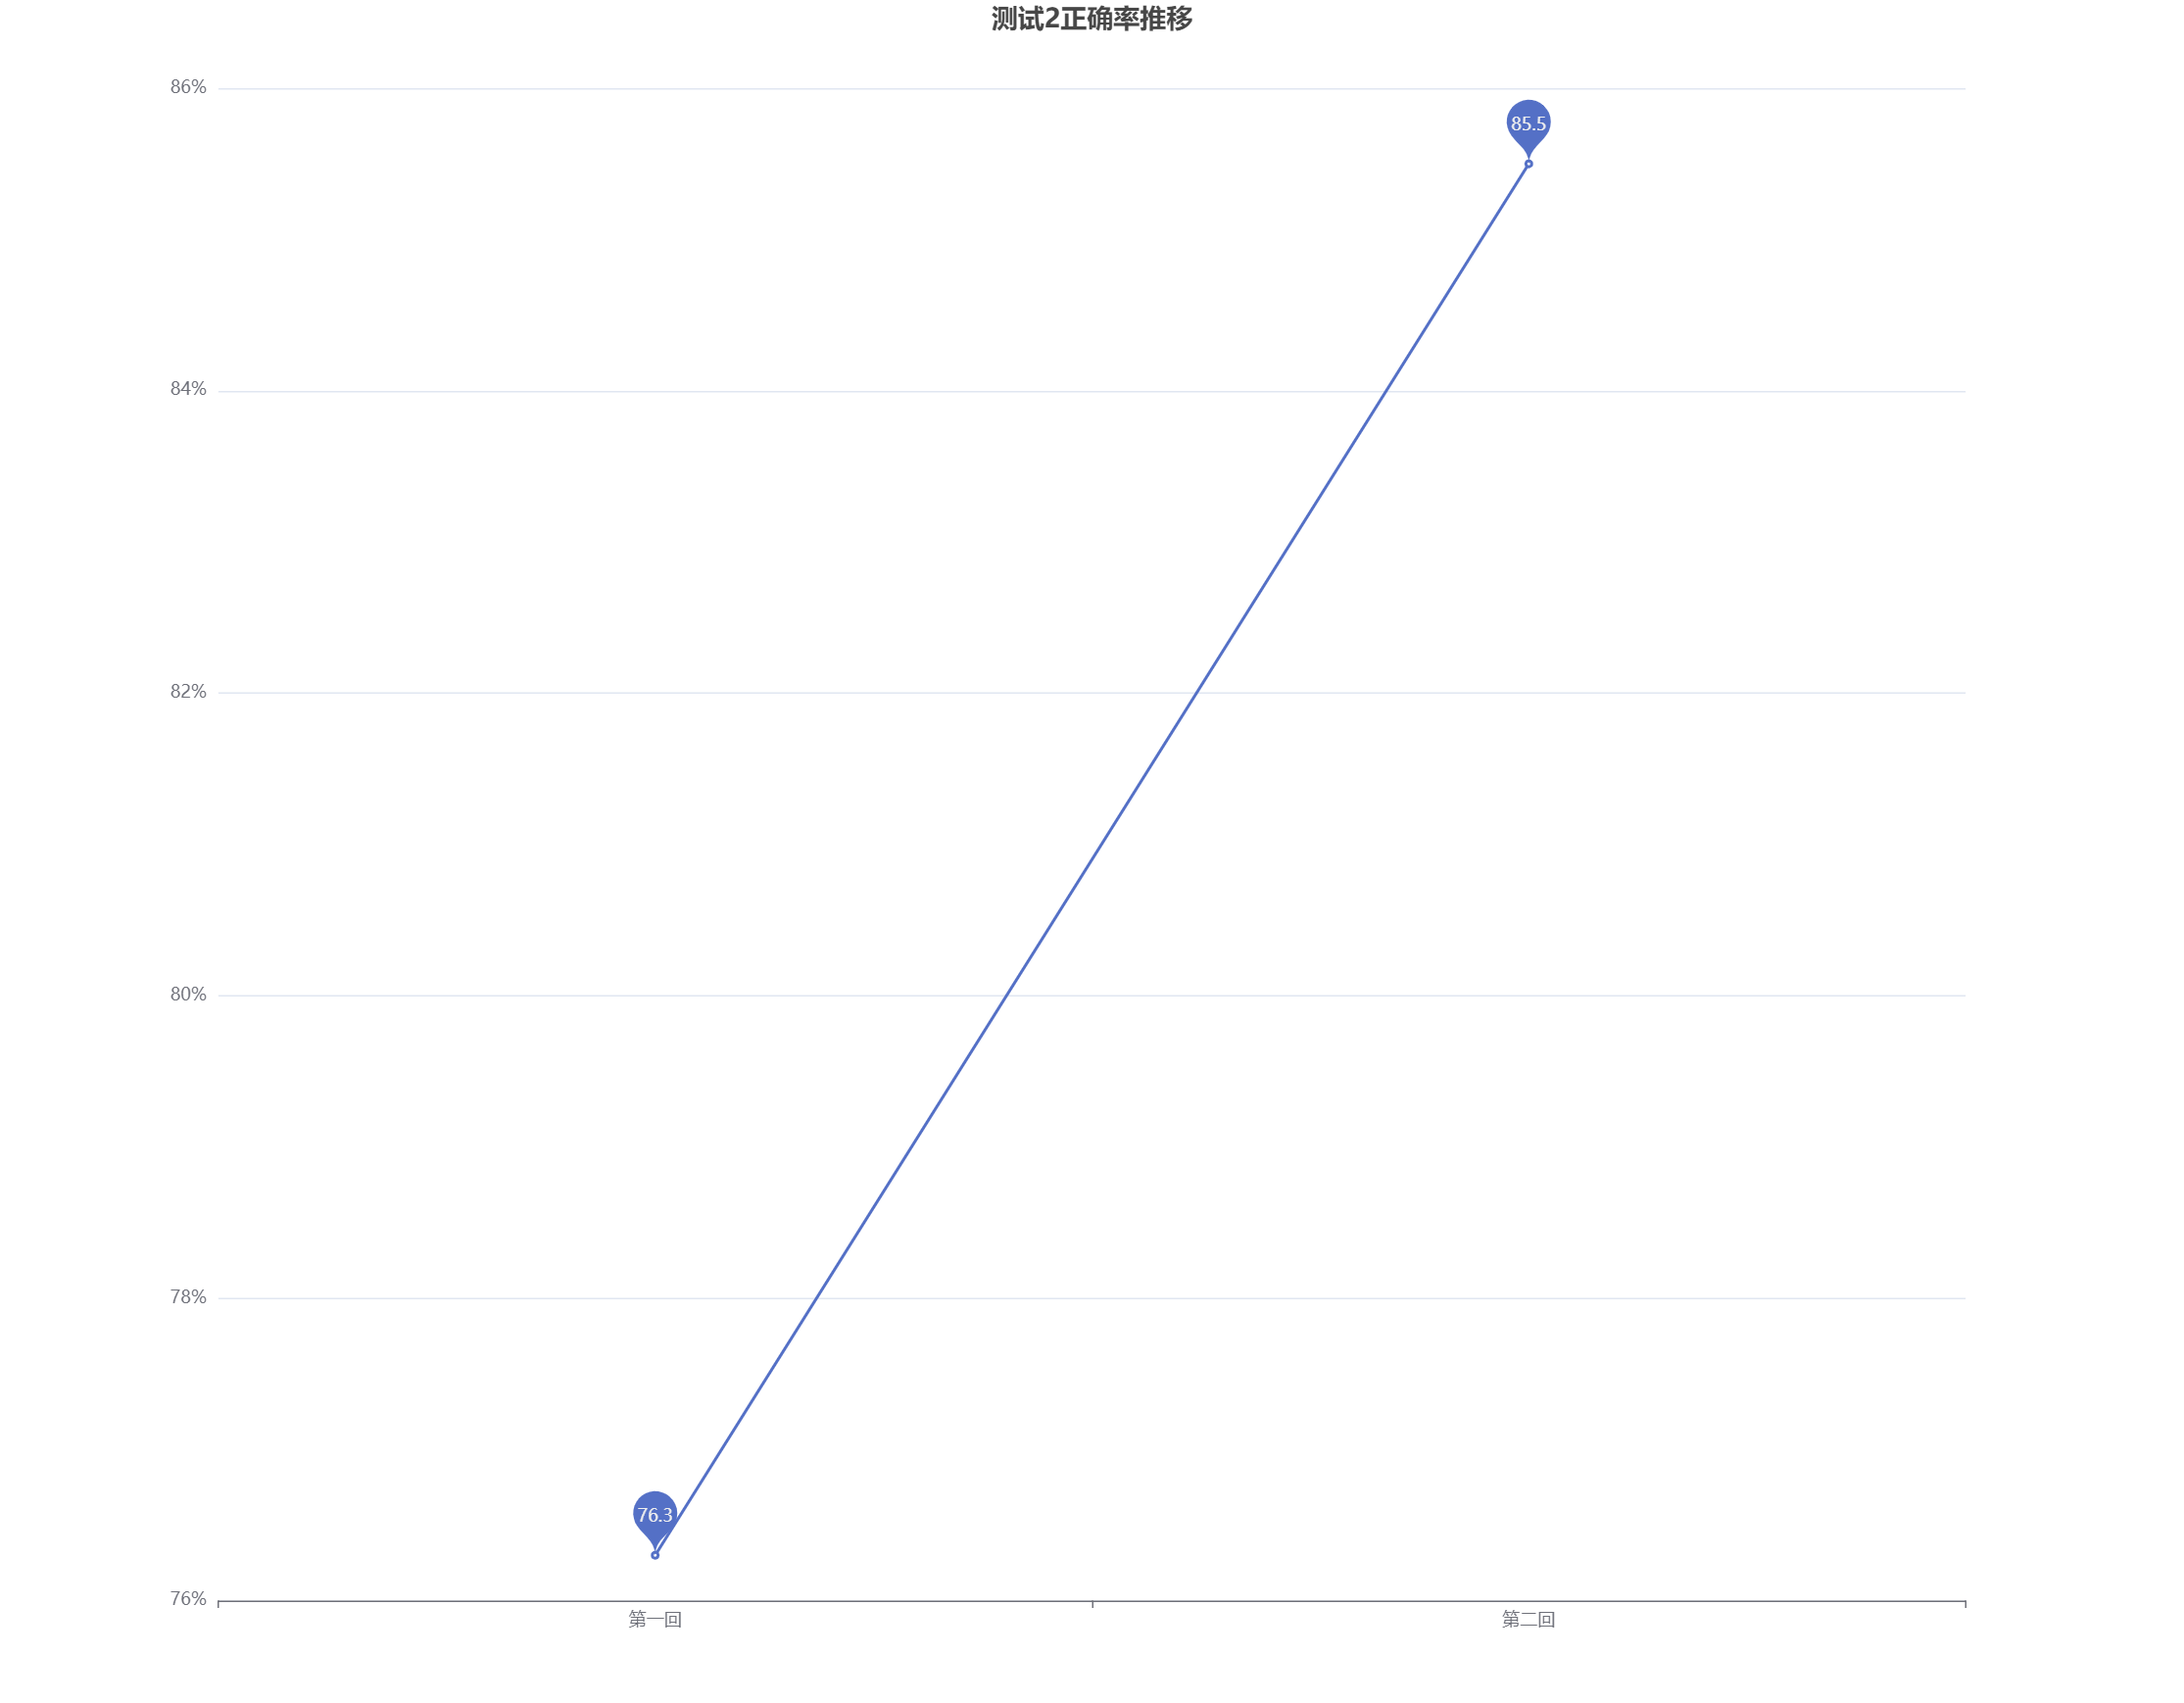
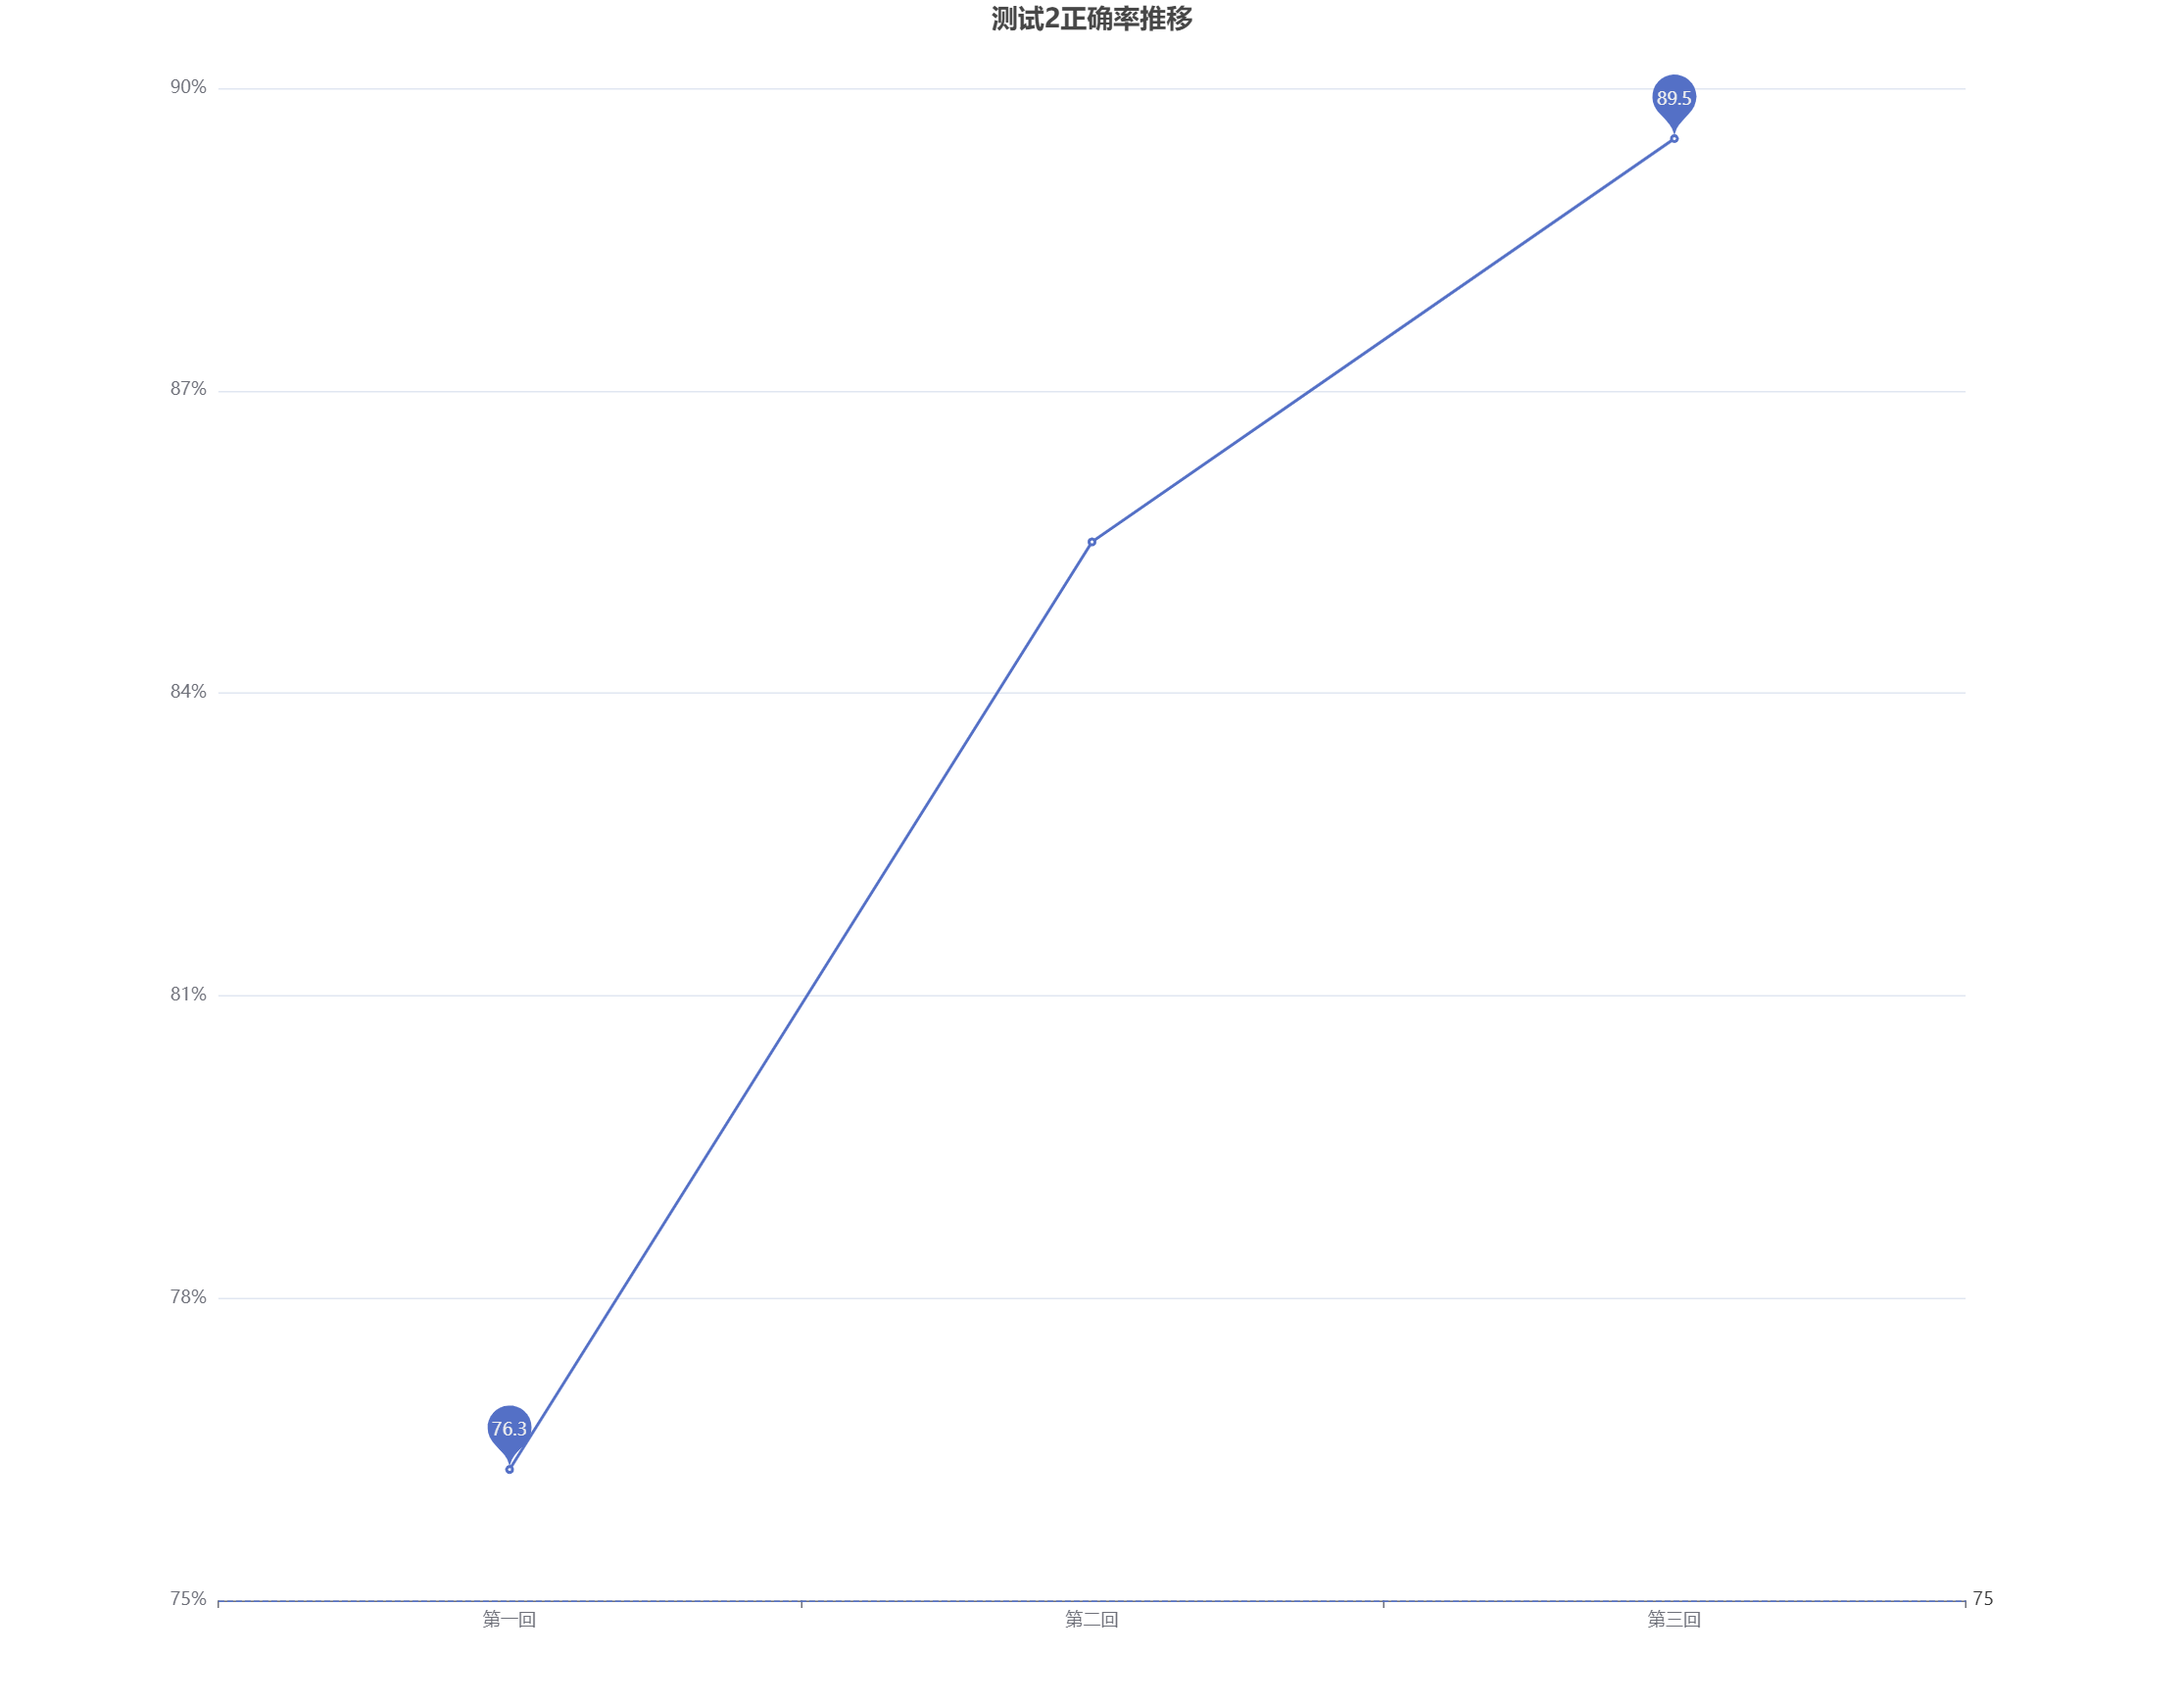
upadte test result of topic2

diff --git a/src/result.js b/src/result.js
@@ -74,25 +74,26 @@ option = {
         ['01', 1],
         ['06', 2],
         ['07', 1],
-        ['10', 1],
+        ['10', 2],
         ['12', 1],
         ['13', 1],
         ['16', 2],
         ['19', 1],
-        ['21', 1],
-        ['22', 1],
+        ['21', 2],
+        ['22', 2],
         ['25', 1],
-        ['26', 2],
-        ['28', 1],
+        ['26', 3],
+        ['28', 2],
         ['29', 1],
-        ['42', 1],
+        ['42', 2],
         ['43', 1],
+        ['46', 1],
         ['49', 2],
         ['55', 1],
         ['64', 2],
         ['66', 1],
         ['68', 1],
-        ['71', 2],
+        ['71', 3],
         ['72', 1],
       ],
     },

diff --git a/src/rate.js b/src/rate.js
@@ -59,7 +59,7 @@ option = {
   },
   series: [
     {
-      data: [76.3, 85.5],
+      data: [76.3, 85.5, 89.5],
       type: 'line',
       markLine: {
         symbol: ['none', 'none'],
@@ -88,7 +88,7 @@ option = {
   },
   xAxis: {
     type: 'category',
-    data: ['第一回', '第二回'],
+    data: ['第一回', '第二回', '第三回'],
   },
   yAxis: {
     type: 'value',
